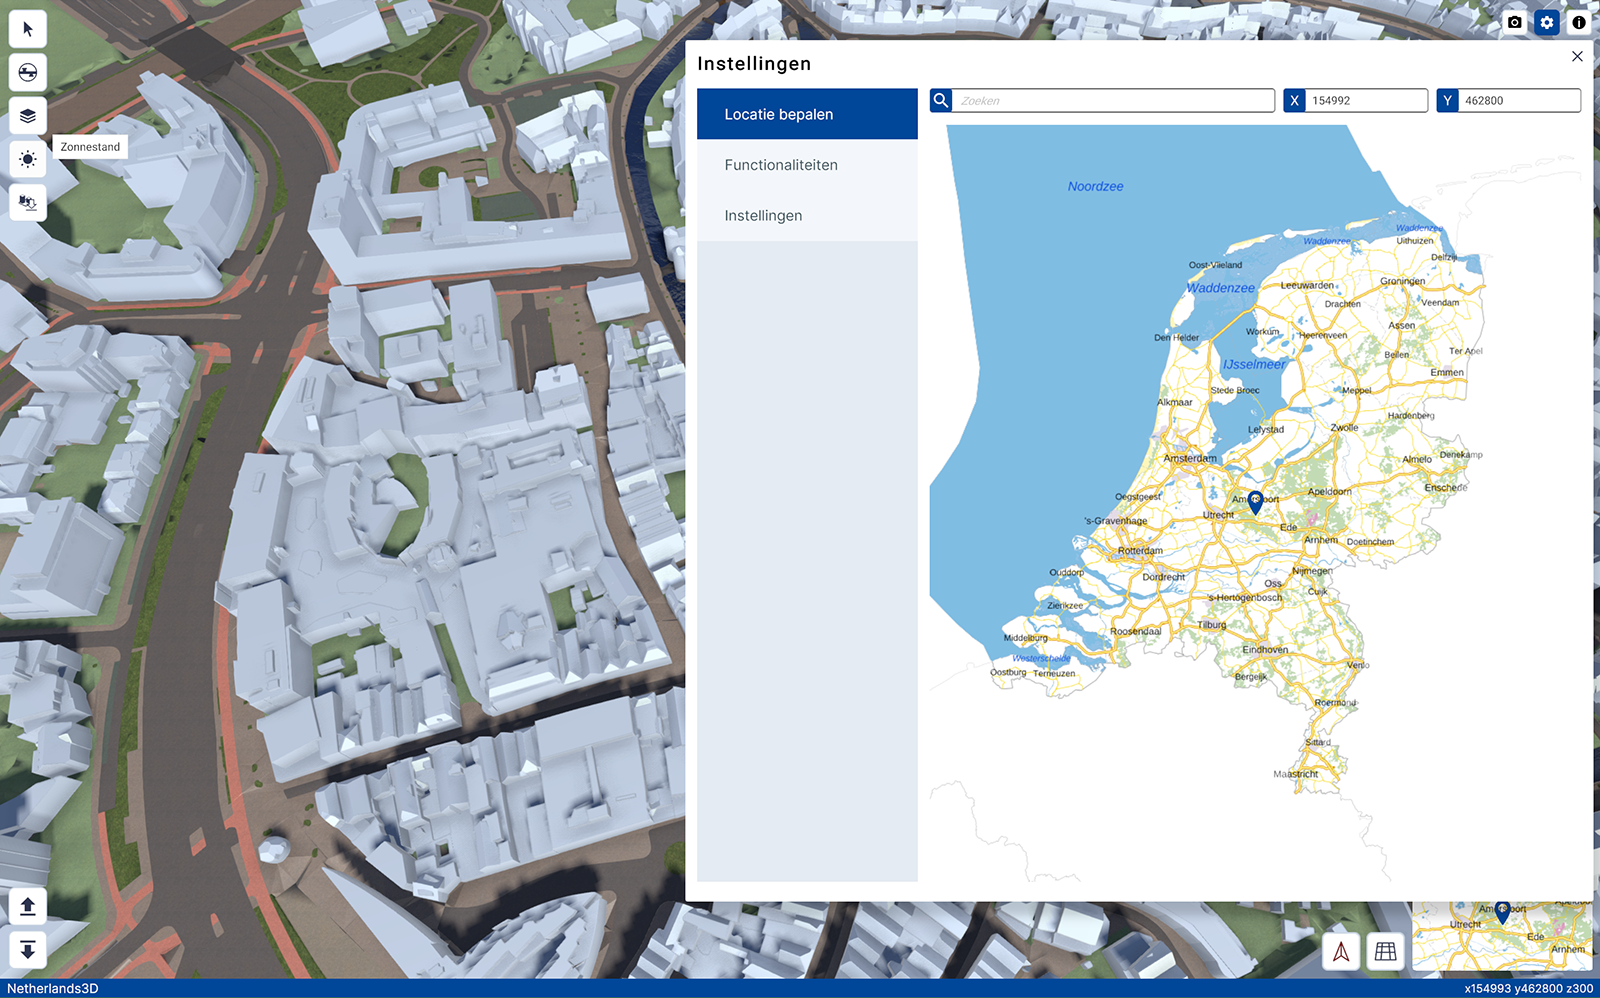
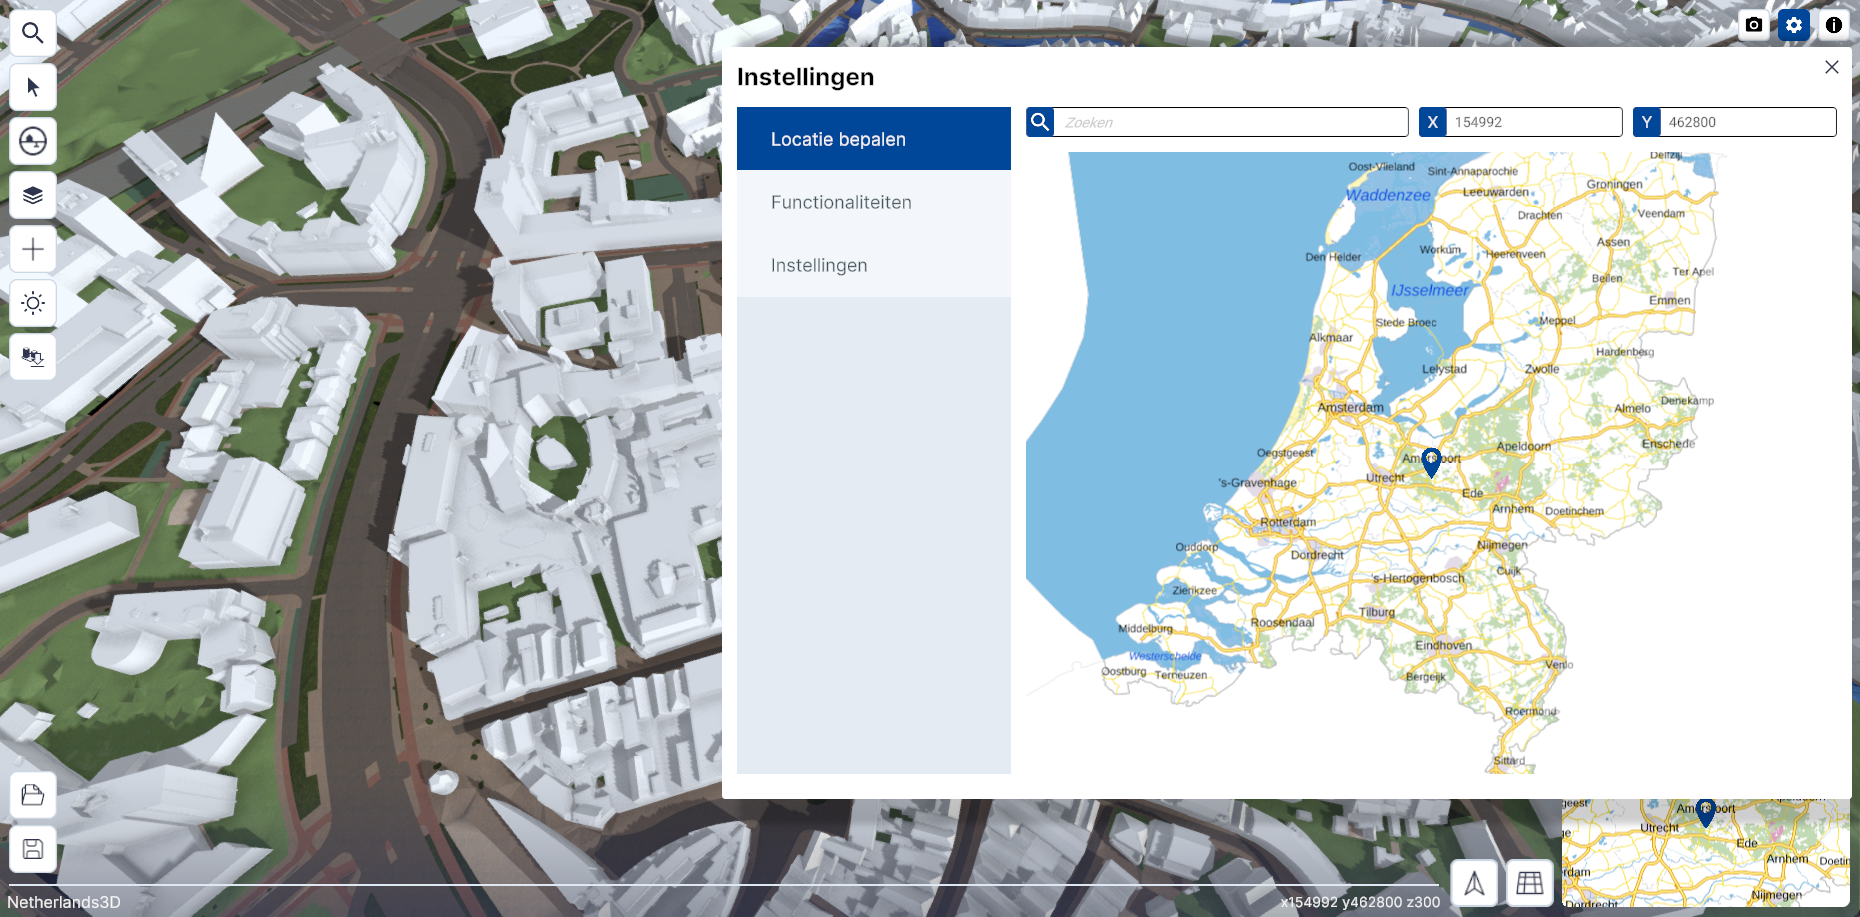
logischer benamingen en updates

diff --git a/docs/docs/handleiding/3D-viewer.md b/docs/docs/handleiding/3D-viewer.md
@@ -1,18 +1,18 @@
 # 3D-viewer
 
 De 3D-viewer is de **hoofdfunctionaliteit van Netherlands3D**. De interface biedt toegang tot de verschillende
-functionaliteiten. De 3D-viewer wordt geactiveerd na het klikken op de knop **Bekijk de viewer** op de voorpagina.
+functies. De 3D-viewer wordt geactiveerd na het klikken op de knop **Bekijk de viewer** op de voorpagina.
 
-Dit hoofdstuk beschrijft de belangrijkste functionaliteiten van de 3D-viewer en de instellingen.
+Dit hoofdstuk beschrijft de belangrijkste functies van de 3D-viewer en de instellingen.
 
-## Gedetailleerde beschrijving van de functionaliteiten
+## Beschrijving van het instellingenmenu
 
 ### Startscherm
 
 ![Building Blocks](../handleiding/imgs/3d-viewer.png)
 _(Afbeelding) 3D-Viewer startscherm_
 
-Na het opstarten van de 3D viewer is het instellingen menu actief. Het instellingenmenu is onderverdeeld in de functies;
+Na het opstarten van de 3D viewer is het instellingen menu actief. In het instellingenmenu zijn de volgende onderdelen beschikbaar;
 
 * [Locatie bepalen (Link)](../3D-viewer-locatie-bepalen/)
 * [Functionaliteiten (Link)](../3D-viewer-functionaliteiten/)
@@ -25,7 +25,7 @@ Na het opstarten van de 3D viewer is het instellingen menu actief. Het instellin
 ![Building Blocks](../handleiding/imgs/3d-viewer.interface.png)
 _(Afbeelding) 3D-Viewer interface_
 
-De interface is onderverdeeld in het 3D-scherm met daaromheen de knoppen van de interface gegroepeerd in vier menu's:
+De interface is opgedeeld in het 3D-scherm met daaromheen de knoppen van de interface gegroepeerd in vier menu's:
 
 1. Werkbalk – linksboven  
 2. Project openen/opslaan - linksonder  
@@ -40,11 +40,13 @@ De interface is onderverdeeld in het 3D-scherm met daaromheen de knoppen van de 
 
 Het hoofdmenu (linksboven) bevat de volgende functies (van boven naar onder);
 
+* [Zoekfunctie (Link)](../zoekfunctie/)
 * [Object informatie (Link)](../object-informatie/)
 * [Ondergrond doorzicht (Link)](../ondergrond-doorzicht/)
 * [Lagen (Link)](../lagen/)
+* [Toevoegen (link)](../toevoegen/)
 * [Zonnestand (Link)](../zonnestand/)
-* [Gebied downloaden (Link)](../gebied-downloaden/)
+* [Downloaden (Link)](../gebied-downloaden/)
 
 ![Building Blocks](../handleiding/imgs/3d-viewer.menu.linksonder.png){ style="height:100px;width:50px" align=left }
 
@@ -57,7 +59,7 @@ Het Project opslaan/openen-menu bevindt zich in de linker onder hoek en bevat de
 
 ### Applicatiebalk
 
-![Building Blocks](../handleiding/imgs/3d-viewer.menu.rechtsboven.png){ width="150" }
+![Building Blocks](../handleiding/imgs/3d-viewer.menu.rechtsboven.png){ width="200" }
 
 De Applicatiebalk rechtsbovenin bevat de volgende functies (van links naar rechts):
 
@@ -84,13 +86,14 @@ De knop `Informatie` opent de Homepage in een apart browser-venster.
 
 Het menu bevat de volgende functies:
 
-![Building Blocks](../handleiding/imgs/3d-viewer.rechtsonder.noordpijl.png){ align=left width="50px" }
-
+![Building Blocks](../handleiding/imgs/3d-viewer.rechtsonder.noordpijl.png)
+![Building Blocks](../handleiding/imgs/3d-viewer.rechtsonder.noordpijl.gedraaid.png)
 #### Weergave naar noorden draaien
 
 Klik op `Weergave naar noorden draaien` om de kijkrichting automatisch naar het noorden te richten.   
 
-![Building Blocks](../handleiding/imgs/3d-viewer.rechtsonder.perspectief.png){ align=left width="50px" }
+![Building Blocks](../handleiding/imgs/3d-viewer.rechtsonder.ortho.png)
+![Building Blocks](../handleiding/imgs/3d-viewer.rechtsonder.perspectief.png)
 
 #### Orthografisch/perspectief
 
@@ -105,11 +108,11 @@ De minimap is de kleine versie van de map bij instellingen zie 2. Instellingen
 Beweeg met de muis over de minimap om deze te vergroten.  
 Door op een locatie in de minimap te klikken wordt in de 3D viewer bijbehorende locatie weergegeven.
 
-Met de knoppen `+/-` kan worden in-/uitgezoomd.
+Met de knoppen `+/-` of met je scroll-wiel kan worden in-/uitgezoomd.
 
 #### Positie
 
-In de blauwe onderbalk van de viewer staan (rechts) de coördinaten van de positie van de viewer.
+In de onderbalk van de viewer staan (rechts) de coördinaten van de positie van de viewer.
 ![Building Blocks](../handleiding/imgs/3d-viewer.positie.png){ width="360px" }
 
 !!! question "Waarom zie ik x,y,z-coördinaten en geen gps-coördinaten?"
@@ -122,13 +125,11 @@ In de blauwe onderbalk van de viewer staan (rechts) de coördinaten van de posit
 ### Navigeren
 
 Het scherm toont de locatie die in het instellingenmenu is ingevoerd of – als er geen invoer is gedaan - de
-default-locatie (centrum Amersfoort). Het beeld is in perspectief, onder een lichte hoek en vanaf een hoogte van 300
-meter.
+default-locatie (het kadastrale nulpunt van Nederland in het centrum van Amersfoort). Het beeld is in perspectief, onder een lichte hoek en vanaf een hoogte van 300 meter.
 
 #### Besturen en navigeren
 
-`Verplaats de muis` al dan niet in `combinatie met muisknoppen en/of toetsenbordknoppen` om door de 3D wereld in de
-viewer te navigeren.
+`Verplaats de muis` al dan niet in `combinatie met muisknoppen en/of toetsenbordknoppen` om door de 3D wereld in de viewer te navigeren.
 
 Dit kan op verschillende manieren;
 

diff --git a/docs/docs/handleiding/toevoegen-importeren.md b/docs/docs/handleiding/toevoegen-importeren.md
@@ -7,11 +7,11 @@ _(Afbeelding) Toevoegen / Importeren_
 
 ---
 
-## Gedetailleerde beschrijving van de functionaliteiten
+## Gedetailleerde beschrijving van de functies
 
 ### **Importeren Eigen bestand**   
 
-De functionaliteit `Importeren` biedt de mogelijkheid om **lagen en Objecten** via het importeren van bestanden of **via weblinks te koppelen**.
+De functie `Importeren` biedt de mogelijkheid om **lagen en Objecten** via het importeren van bestanden of **via weblinks te koppelen**.
 <br>  
 ![Building Blocks](../handleiding/imgs/lagen.toevoegen.importeren.png){ width="350px" }  
 _(Afbeelding) Importeren Eigen bestand_  
